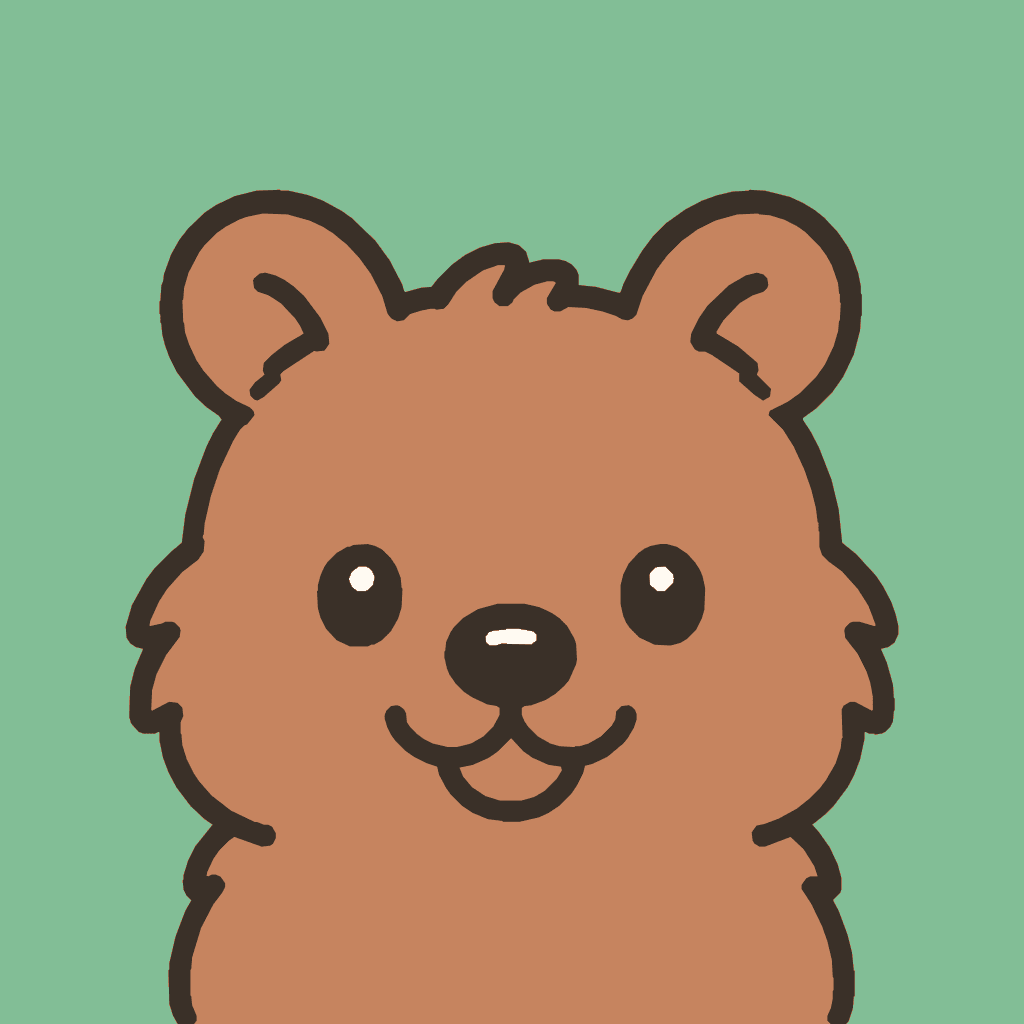
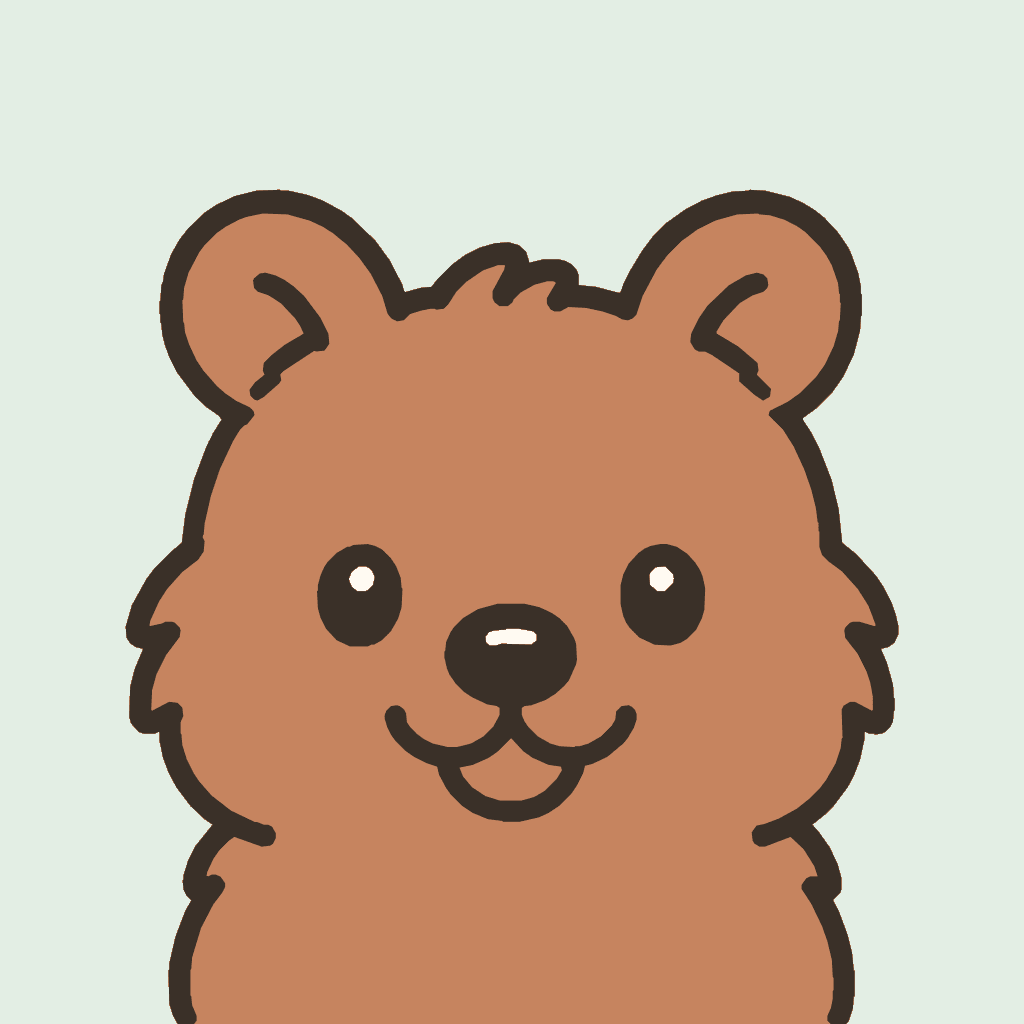
Brand images use real theme grounds, the About card restates its page
The Ocean and Grove profile pictures sat on #70b2d7/#82be96, which are the
dark themes' accents, not grounds. They now use each family's own ground
from themes.css (ocean-light #dfebf3, grove-light #e3eee4), matching Rotli
on its light ground and Midnight on its dark one.

The About link card said "About rotli" with a line the page never says,
breaking og.ts's own rule; it now restates the page's heading and lede.

The docs and the script header said the build fails on any text under
4.5:1, but TEXT_PAIRS only checks the title and line tokens on the solid
warm ground. The wording now says exactly that, and that text over the
pattern, sea, sand, or underline is reviewed on the contact sheet.

Re-rendered with build:brand-images; only the three affected PNGs changed.

diff --git a/site/src/og.ts b/site/src/og.ts
@@ -56,8 +56,8 @@ export const OG_CARDS = {
     pose: 'notes',
   },
   about: {
-    title: 'About rotli',
-    line: 'A calm place to think, built on one folder of ordinary files you keep.',
+    title: 'Why I’m building rotli',
+    line: 'Notes are where work starts. They should live somewhere that is yours.',
     pose: 'rest',
   },
   download: {

diff --git a/docs/development/testing.md b/docs/development/testing.md
@@ -52,7 +52,7 @@ stays complete — every `package.json` script must appear in this document):
 | `bun run dev:web` | Rotli Web with hot reload at `http://localhost:1437/app/` (the web platform, the `/app/` base). No security headers: the site's Docker prod twin is the rehearsal for those |
 | `bun run build:web` | Build the Rotli Web bundle (`ROTLI_WEB_BASE=/app/`, `ROTLI_PLATFORM=web`): the desktop `build` minus the Rust/Breve contract check, used by the `app` stage of `site/Dockerfile` |
 | `bun run build:social-card` | Render the site's editable Open Graph SVG (fonts and the quokka inlined, external requests blocked) into `social-card.png` (1200×630, Open Graph/Twitter/iMessage/Slack) and `social-card-github.png` (1280×640, the GitHub repository social preview) |
-| `bun run build:brand-images` | Render the per-page link cards (`site/public/og/`) and the X/LinkedIn/GitHub/YouTube banners, profile pictures, and thumbnails (`brand/assets/`) from the SVG templates in `scripts/brand-images/`, failing on clipped text, text over the art, or contrast under 4.5:1; writes a contact sheet to `_review/brand-images/` (`--thumbnail "Title"` renders one thumbnail) |
+| `bun run build:brand-images` | Render the per-page link cards (`site/public/og/`) and the X/LinkedIn/GitHub/YouTube banners, profile pictures, and thumbnails (`brand/assets/`) from the SVG templates in `scripts/brand-images/`, failing on clipped text, text over the art, or title/line colors under 4.5:1 on the solid warm ground (text over the pattern, sea, sand, or underline is not sampled; check the contact sheet); writes a contact sheet to `_review/brand-images/` (`--thumbnail "Title"` renders one thumbnail) |
 | `bun run build:companion-showcase` | Render the landing page's companion carousel (webp slides + `showcase.json`) from the app's own quokka art and placement rules |
 | `bun run capture:site` | Capture the Warm Light workspace for the social card (`site/public/rotli-app-warm-light@3x.png`) and the Welcome folder's Tasks lesson in Main (`site/public/rotli-playground@3x.png`) at 3× density from a running local browser twin; the theme studio's `site/public/themes/` captures are a separate set it does not touch; `site/README.md` owns media regeneration and visual review |
 | `bun run dev:app` | The native desktop development app, branded `Rotli (Dev)` with a fixed blue Rotli Dock icon applied by the Rust shell at launch (including an optically matched safe area for the unbundled `tauri dev` runtime); it uses an isolated `corpus.dev.json` vault selection, keeps the production fallback read-only, and supervises vault-triggered Tauri/Vite restarts from the terminal |

diff --git a/brand/README.md b/brand/README.md
@@ -23,7 +23,9 @@ bundled fonts, the quokka line art in `src/assets/characters/` filled with the
 app's Cocoa body, and the story film's island palette. The same run renders the
 site's per-page link cards (`site/README.md`) and a contact sheet at
 `_review/brand-images/contact-sheet.png`. Every text block is checked against
-its safe area, the quokka, and 4.5:1 contrast before anything is written.
+its safe area and the quokka before anything is written, and the title and line
+colors must reach 4.5:1 on the solid warm ground. Text set over the pattern,
+sea, sand, or ink underline is not sampled; check it on the contact sheet.
 
 | File | Size | Use |
 | --- | --- | --- |
@@ -31,7 +33,7 @@ its safe area, the quokka, and 4.5:1 contrast before anything is written.
 | `banners/linkedin-banner-1128x191.png` | 1128×191 | LinkedIn company page. Text starts right of the logo's overlap. |
 | `banners/github-social-preview-1280x640.png` | 1280×640 | GitHub Settings → Social preview (uploaded by hand). |
 | `banners/youtube-channel-art-2560x1440.png` | 2560×1440 | YouTube banner. Wordmark, headline, and quokka sit inside the 1546×423 safe area every device shows; the bay, clouds, and lighthouse fill the TV area. |
-| `pfp/rotli-pfp-{rotli,ocean,grove,midnight}.png` | 1024×1024 | Profile pictures: the face mark on the Rotli, Ocean, Grove, and Midnight grounds, safe for a circular crop. |
+| `pfp/rotli-pfp-{rotli,ocean,grove,midnight}.png` | 1024×1024 | Profile pictures: the face mark on each family's ground from `src/styles/themes.css` (Rotli, Ocean, and Grove light; Midnight dark), safe for a circular crop. |
 | `thumbnails/template.png` | 1280×720 | The blog/YouTube thumbnail with its title slot. |
 | `thumbnails/<post slug>.png` | 1280×720 | One per published post, from its frontmatter title. |
 

diff --git a/site/README.md b/site/README.md
@@ -353,7 +353,9 @@ bun run preview  # serve the built dist/ locally
   a post, run `bun run build:brand-images` from the repository root: it renders
   every card in Chromium with the bundled fonts and the network off, shrinks a
   title only as far as its three-line limit, fails if any text leaves the safe
-  area, touches the quokka or the lighthouse, or falls under 4.5:1 contrast, and
+  area or touches the quokka or the lighthouse, or if the title and line colors
+  fall under 4.5:1 on the solid warm ground (text over the pattern, sea, sand,
+  or underline is not sampled; check the contact sheet), and
   palette-compresses the PNGs (about 35 KB each). The same run writes the
   banners, profile pictures, and thumbnails described in `brand/README.md`, and
   a contact sheet of everything at `_review/brand-images/contact-sheet.png`
